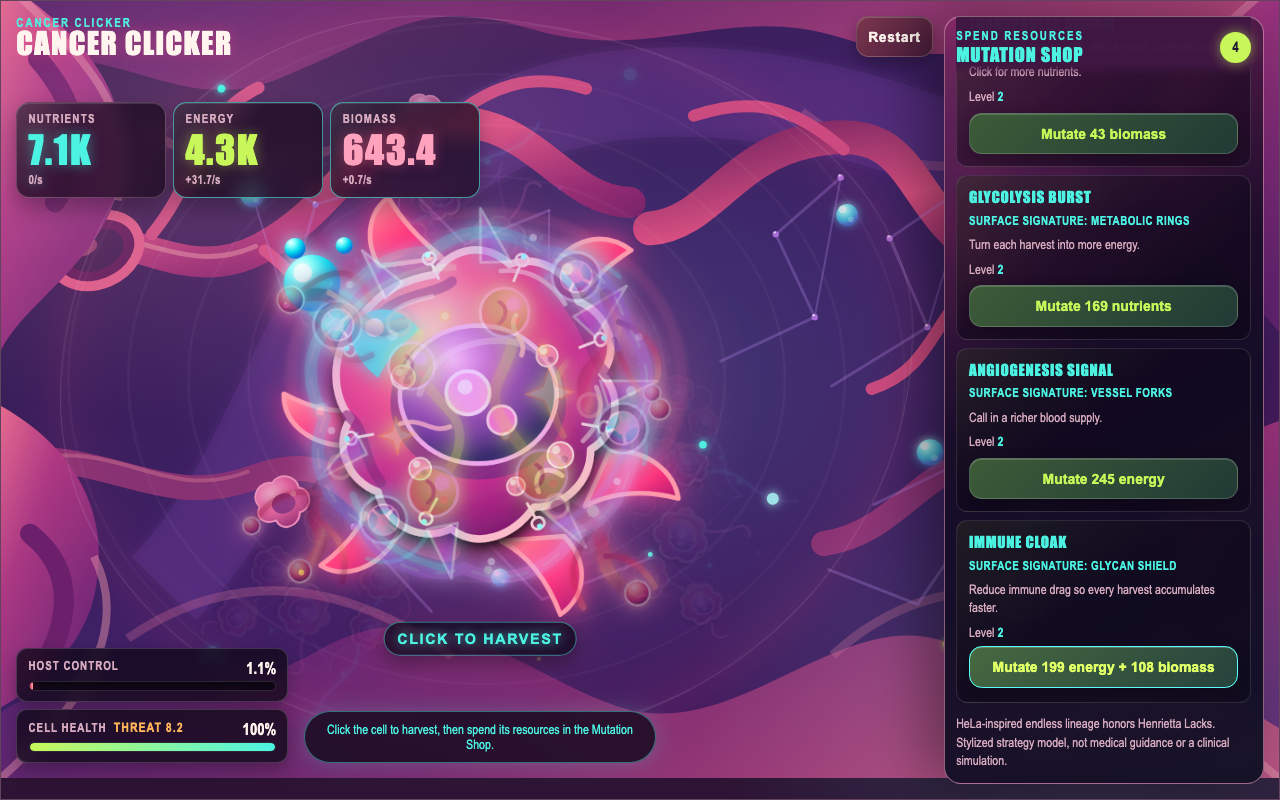
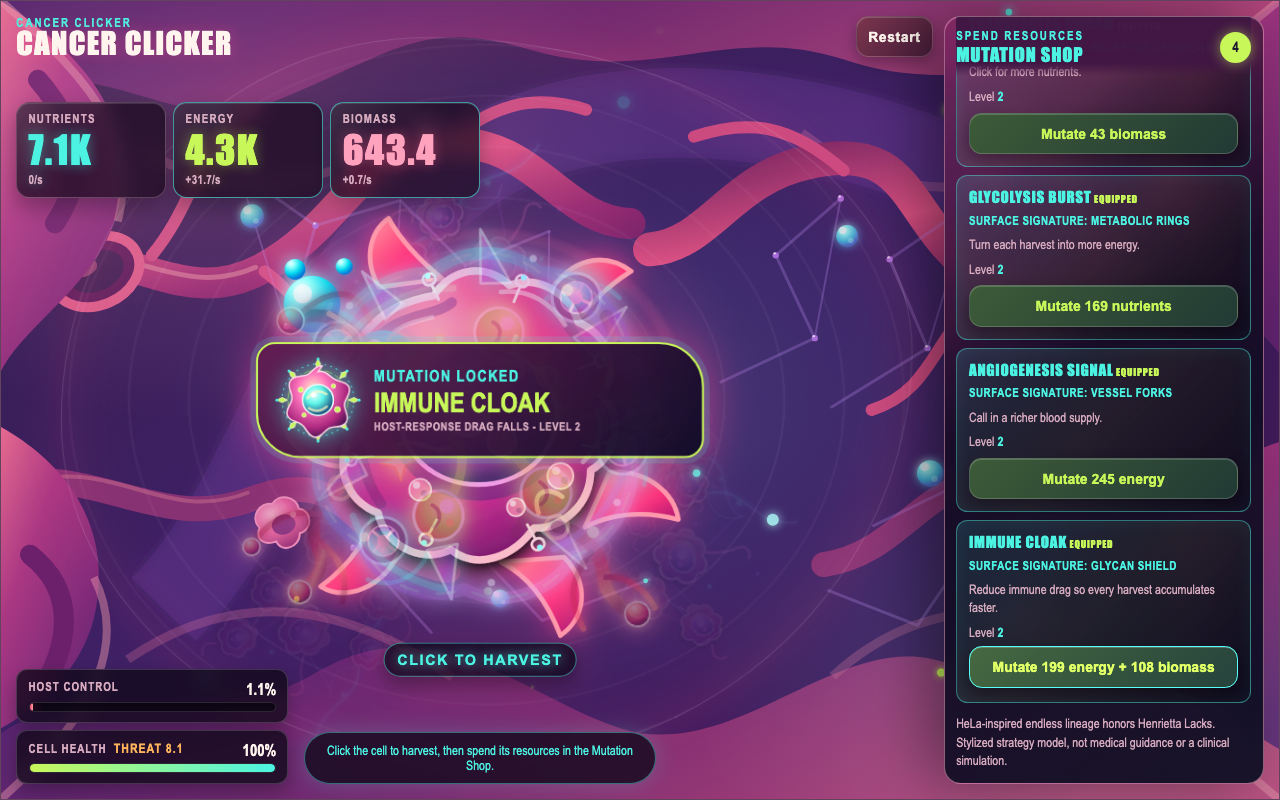
Added a mutation-milestone feedback mechanic: every success... (+2 more)
- Added a mutation-milestone feedback mechanic: every successful purchase now triggers an organic
  SVG signal burst, names the equipped mutation, and leaves its shop card visibly marked.
- Added `src/effects.css` as the focused motion and feedback cascade, with a stable reduced-motion
  presentation and mobile placement that preserves the 16:10 tissue chamber.
- The first documentation gate rejected links to the new untracked effect sources; architecture
  docs now use plain paths until those files enter the tracked repository set.

diff --git a/src/main.ts b/src/main.ts
@@ -12,6 +12,12 @@ import type { SimulationState, UpgradeId } from "./types/simulation";
 import { renderGame } from "./ui_rendering";
 
 const TICK_INTERVAL_MILLISECONDS = 250;
+const MUTATION_FEEDBACK: Readonly<Record<UpgradeId, readonly [string, string]>> = {
+  transporters: ["Transporter swarm", "Nutrient capture compounds"],
+  glycolysis: ["Glycolysis burst", "Energy harvest compounds"],
+  angiogenesis: ["Angiogenesis signal", "Blood supply compounds"],
+  immune_cloak: ["Immune cloak", "Host-response drag falls"],
+};
 
 let state: SimulationState = createInitialState();
 
@@ -24,6 +30,10 @@ function main(): void {
   restartButton.addEventListener("click", restartSimulation);
   cellClickTarget.addEventListener("click", harvestNutrients);
   cellClickTarget.addEventListener("animationend", removeClickFeedback);
+  requiredElement<HTMLElement>("#mutation-feedback").addEventListener(
+    "animationend",
+    hideMutationFeedback,
+  );
   document.addEventListener("click", handleManagementClick);
   window.setInterval(advanceClock, TICK_INTERVAL_MILLISECONDS);
   render();
@@ -46,6 +56,7 @@ function startSimulation(): void {
 
 function restartSimulation(): void {
   state = createInitialState();
+  requiredElement<HTMLElement>("#mutation-feedback").hidden = true;
   render();
 }
 
@@ -87,9 +98,32 @@ function handleManagementClick(event: MouseEvent): void {
 
   if (button.dataset["action"] === "buy-upgrade") {
     const upgradeId = readUpgradeId(button);
-    state = purchaseUpgrade(state, upgradeId);
+    const previousLevel = state.upgradeLevels[upgradeId];
+    const nextState = purchaseUpgrade(state, upgradeId);
+    state = nextState;
     render();
+    if (nextState.upgradeLevels[upgradeId] > previousLevel) {
+      triggerMutationFeedback(upgradeId, nextState.upgradeLevels[upgradeId]);
+    }
   }
+}
+
+function triggerMutationFeedback(upgradeId: UpgradeId, level: number): void {
+  const feedback = requiredElement<HTMLElement>("#mutation-feedback");
+  const [title, detail] = MUTATION_FEEDBACK[upgradeId];
+  requiredElement<HTMLElement>("#mutation-feedback-title").textContent = title;
+  requiredElement<HTMLElement>("#mutation-feedback-detail").textContent =
+    `${detail} - level ${level}`;
+  feedback.hidden = false;
+  feedback.classList.remove("is-active");
+  window.requestAnimationFrame(() => feedback.classList.add("is-active"));
+}
+
+function hideMutationFeedback(event: AnimationEvent): void {
+  if (event.target !== event.currentTarget) return;
+  const feedback = requiredElement<HTMLElement>("#mutation-feedback");
+  feedback.classList.remove("is-active");
+  feedback.hidden = true;
 }
 
 function managementButton(target: EventTarget | null): HTMLButtonElement | null {

diff --git a/src/effects.css b/src/effects.css
@@ -1,0 +1,107 @@
+.mutation-feedback {
+  position: absolute;
+  z-index: 18;
+  top: 50%;
+  left: calc((100% - var(--shop-width)) / 2);
+  display: grid;
+  width: min(28rem, calc(100% - var(--shop-width) - 2rem));
+  grid-template-columns: 5.5rem 1fr;
+  gap: 0.75rem;
+  align-items: center;
+  padding: 0.75rem 1rem;
+  transform: translate(-50%, -50%);
+  border: 2px solid var(--metabolic);
+  border-radius: 1.2rem 2.8rem;
+  color: #fff9ed;
+  background: linear-gradient(135deg, rgb(99 28 82 / 94%), rgb(16 12 39 / 96%));
+  box-shadow:
+    0 0 0 0.35rem rgb(76 243 226 / 16%),
+    0 0 3rem rgb(255 73 145 / 62%);
+  pointer-events: none;
+}
+.mutation-feedback.is-active {
+  animation: mutation-feedback-arrive 1.7s cubic-bezier(0.16, 1, 0.3, 1) both;
+}
+.mutation-feedback[hidden] {
+  display: none;
+}
+.mutation-feedback img {
+  width: 5.5rem;
+  filter: drop-shadow(0 0 0.8rem rgb(76 243 226 / 70%));
+}
+.mutation-feedback span,
+.mutation-feedback small {
+  display: block;
+  color: var(--nutrient);
+  font-weight: 850;
+  letter-spacing: 0.08em;
+  text-transform: uppercase;
+}
+.mutation-feedback strong {
+  display: block;
+  margin-block: 0.15rem;
+  color: var(--metabolic);
+  font-size: clamp(1.15rem, 2.2vw, 1.7rem);
+  text-transform: uppercase;
+}
+.mutation-feedback small {
+  color: var(--muted);
+  font-size: 0.72rem;
+  letter-spacing: 0.04em;
+}
+.upgrade-card[data-owned="true"] {
+  border-color: rgb(76 243 226 / 45%);
+  background: linear-gradient(
+    135deg,
+    rgb(76 243 226 / 12%),
+    rgb(200 247 90 / 7%) 48%,
+    rgb(10 5 19 / 55%)
+  );
+  box-shadow: inset 0 0 1.2rem rgb(76 243 226 / 7%);
+}
+.upgrade-card[data-owned="true"] h3::after {
+  content: "  EQUIPPED";
+  color: var(--metabolic);
+  font-size: 0.62rem;
+  letter-spacing: 0.08em;
+}
+@keyframes mutation-feedback-arrive {
+  0% {
+    opacity: 0;
+    transform: translate(-50%, -42%) scale(0.72) rotate(-3deg);
+  }
+  18%,
+  72% {
+    opacity: 1;
+    transform: translate(-50%, -50%) scale(1);
+  }
+  100% {
+    opacity: 0;
+    transform: translate(-50%, -56%) scale(1.04);
+  }
+}
+@media (max-width: 700px) {
+  .mutation-feedback {
+    top: 43%;
+    left: 50%;
+    width: min(92%, 25rem);
+    grid-template-columns: 4.2rem 1fr;
+  }
+  .mutation-feedback img {
+    width: 4.2rem;
+  }
+}
+@media (prefers-reduced-motion: reduce) {
+  .mutation-feedback.is-active {
+    animation: mutation-feedback-still 1.7s linear both !important;
+  }
+  @keyframes mutation-feedback-still {
+    0%,
+    85% {
+      opacity: 1;
+    }
+    100% {
+      opacity: 0;
+    }
+  }
+}

diff --git a/tests/playwright/smoke.spec.ts b/tests/playwright/smoke.spec.ts
@@ -122,6 +122,9 @@ test("smoke: Cancer Clicker keeps its mutation shop and cell evolution visible",
     await expect(page.locator(`#upgrade-${mutation.id}-level`)).toHaveText("1");
     await expect(page.locator(mutation.art)).toHaveAttribute("data-level", "1");
     await expect.poll(() => computedOpacity(page, mutation.art)).toBeGreaterThan(0);
+    await expect(button.locator("xpath=ancestor::article")).toHaveAttribute("data-owned", "true");
+    await expect(page.locator("#mutation-feedback")).toBeVisible();
+    await expect(page.locator("#mutation-feedback-title")).not.toHaveText("Surface evolved");
   }
 
   for (const selector of [
@@ -133,6 +136,7 @@ test("smoke: Cancer Clicker keeps its mutation shop and cell evolution visible",
     ".colony-three",
     ".colony-four",
     "#immune-patrol-image",
+    "#mutation-feedback img",
   ]) {
     await assetLoads(page, selector);
   }
@@ -174,6 +178,7 @@ test("smoke: Cancer Clicker keeps its mutation shop and cell evolution visible",
 test("smoke: the always-open shop remains reachable on a phone", async ({ page }) => {
   const diagnostics = captureDiagnostics(page);
   await page.setViewportSize({ width: 390, height: 844 });
+  await page.emulateMedia({ reducedMotion: "reduce" });
   await page.goto("/");
 
   await startSimulation(page);
@@ -201,6 +206,8 @@ test("smoke: the always-open shop remains reachable on a phone", async ({ page }
   }
   await transporterButton.click();
   await expect(page.locator("#upgrade-transporters-level")).toHaveText("1");
+  await expect(page.locator("#mutation-feedback")).toBeVisible();
+  await expect(page.locator("#mutation-feedback-title")).toHaveText("Transporter swarm");
 
   await expect
     .poll(() =>

diff --git a/src/index.html b/src/index.html
@@ -6,6 +6,7 @@
     <meta name="theme-color" content="#170d20" />
     <title>Cancer Clicker</title>
     <link rel="stylesheet" href="./style.css" />
+    <link rel="stylesheet" href="./effects.css" />
   </head>
   <body>
     <main id="app" class="app-shell" aria-describedby="model-note">
@@ -103,6 +104,20 @@
               alt=""
             /><span class="click-hint">CLICK TO HARVEST</span>
           </button>
+          <div
+            id="mutation-feedback"
+            class="mutation-feedback"
+            role="status"
+            aria-live="polite"
+            hidden
+          >
+            <img src="./art/mutation_burst.svg" alt="" aria-hidden="true" />
+            <div>
+              <span>Mutation locked</span>
+              <strong id="mutation-feedback-title">Surface evolved</strong>
+              <small id="mutation-feedback-detail">Harvest power compounds</small>
+            </div>
+          </div>
           <p id="game-message" role="status" aria-live="polite">
             The transformed cell is ready to wake.
           </p>

diff --git a/src/ui_rendering.ts b/src/ui_rendering.ts
@@ -108,6 +108,10 @@ function renderUpgrade(id: UpgradeId, state: SimulationState, costs: UpgradeCost
   const levelElement = requiredElement<HTMLElement>(`#upgrade-${id}-level`);
   const costElement = requiredElement<HTMLElement>(`#upgrade-${id}-cost`);
   const button = requiredElement<HTMLButtonElement>(`[data-upgrade-id='${id}']`);
+  const card = button.closest<HTMLElement>(".upgrade-card");
+  if (card === null) {
+    throw new Error(`Cancer Clicker renderer requires an upgrade card for ${id}.`);
+  }
   const affordable =
     state.resources.nutrients >= cost.nutrients &&
     state.resources.energy >= cost.energy &&
@@ -116,6 +120,7 @@ function renderUpgrade(id: UpgradeId, state: SimulationState, costs: UpgradeCost
   costElement.textContent = formatResourceCost(cost);
   button.disabled = !affordable || state.status === "ready";
   button.setAttribute("aria-label", `Level ${level + 1}: ${costElement.textContent}`);
+  card.dataset["owned"] = String(level > 0);
 }
 
 function formatResourceCost(cost: ResourceCost): string {

diff --git a/docs/CODE_ARCHITECTURE.md b/docs/CODE_ARCHITECTURE.md
@@ -23,10 +23,11 @@ build emits a self-contained `dist/` directory for GitHub Pages.
   [src/brands.ts](/src/brands.ts) validates the branded non-negative tick value.
 - [src/ui_rendering.ts](/src/ui_rendering.ts) converts state and calculated rates into text,
   progress bars, enabled purchases, lineage visibility, mutation intensity, and nutrient particles.
-- [src/style.css](/src/style.css) provides the responsive 16:10 game-frame layout, organic visual
-  treatment, and interaction feedback.
+- [src/style.css](/src/style.css) provides the responsive 16:10 game-frame layout and organic visual
+  treatment. `src/effects.css` owns purchase feedback, equipped-card states, and reduced-motion
+  behavior.
 - [src/art/](/src/art/) contains editable SVG scene art, cell art, daughter colonies, immune patrols,
-  and mutation signature layers.
+  mutation signatures, and the mutation-milestone signal burst.
 
 ## Data flow
 
@@ -40,7 +41,9 @@ build emits a self-contained `dist/` directory for GitHub Pages.
    takeover.
 5. [src/main.ts](/src/main.ts) calculates an `EconomySnapshot` and upgrade costs for the new state.
 6. [src/ui_rendering.ts](/src/ui_rendering.ts) writes the current stocks and actual `/s` rates to the
-   DOM, then sets visual state for the tumor mass and mutation art.
+   DOM, then sets visual state for the tumor mass, mutation art, and permanently equipped cards.
+7. A successful purchase triggers the named milestone overlay in [src/main.ts](/src/main.ts); its
+   editable burst artwork and motion live in `src/art/mutation_burst.svg` and `src/effects.css`.
 
 The simulation has no save service, server API, offline-progress calculation, failure state, or
 pause state. Accumulation continues while the page remains open after awakening.

diff --git a/docs/FILE_STRUCTURE.md b/docs/FILE_STRUCTURE.md
@@ -30,8 +30,10 @@
   [src/constants.ts](/src/constants.ts), [src/brands.ts](/src/brands.ts), and
   [src/types/simulation.ts](/src/types/simulation.ts) form the deterministic economy model.
 - [src/ui_rendering.ts](/src/ui_rendering.ts) owns DOM updates derived from simulation state.
-- [src/style.css](/src/style.css) owns the visual layout and responsive behavior.
-- [src/art/](/src/art/) holds authored SVG assets copied unchanged to `dist/art/` during builds.
+- [src/style.css](/src/style.css) owns the visual layout and responsive behavior;
+  `src/effects.css` owns milestone motion and persistent mutation feedback.
+- [src/art/](/src/art/) holds authored SVG assets, including the mutation signal burst, copied
+  unchanged to `dist/art/` during builds.
 
 ## Test layout
 
@@ -73,8 +75,8 @@
   [src/constants.ts](/src/constants.ts).
 - Put semantic controls and art references in [src/index.html](/src/index.html), and state-to-DOM
   updates in [src/ui_rendering.ts](/src/ui_rendering.ts).
-- Put game artwork in [src/art/](/src/art/) as editable SVG and visual styling in
-  [src/style.css](/src/style.css).
+- Put game artwork in [src/art/](/src/art/) as editable SVG, structural styling in
+  [src/style.css](/src/style.css), and focused state feedback in `src/effects.css`.
 - Put deterministic game assertions in [tests/test_simulation.mjs](/tests/test_simulation.mjs) and
   visible interaction checks in [tests/playwright/](/tests/playwright/).
 - Put durable reference documentation under [docs/](/docs/) using SCREAMING_SNAKE_CASE names; the

diff --git a/docs/CHANGELOG.md b/docs/CHANGELOG.md
@@ -4,6 +4,10 @@
 
 ### Additions and New Features
 
+- Added a mutation-milestone feedback mechanic: every successful purchase now triggers an organic
+  SVG signal burst, names the equipped mutation, and leaves its shop card visibly marked.
+- Added `src/effects.css` as the focused motion and feedback cascade, with a stable reduced-motion
+  presentation and mobile placement that preserves the 16:10 tissue chamber.
 - Renamed the game and npm package to **Cancer Clicker** / `cancer-clicker`.
 - Added the confirmed live GitHub Pages game link to the README landing page.
 - Refreshed the README newcomer journey with a live demo, a managed gameplay screenshot, a
@@ -75,6 +79,8 @@
   the harness before the final verification run.
 - The first final Playwright launch was blocked by macOS sandbox Mach-port permissions; the same
   production-built suite passed when Chromium was allowed to launch with browser permission.
+- The first documentation gate rejected links to the new untracked effect sources; architecture
+  docs now use plain paths until those files enter the tracked repository set.
 
 ### Developer Tests and Notes
 

diff --git a/README.md b/README.md
@@ -35,7 +35,8 @@ respects Henrietta Lacks and does not use her story as a gameplay reward.
 ## Mutation shop
 
 Each mutation compounds the clicker economy and visibly equips or intensifies a matching surface
-signature. Costs rise without a cap, which keeps the accumulation loop open ended.
+signature. A successful purchase fires a named organic mutation burst and permanently marks the
+shop card as equipped. Costs rise without a cap, which keeps the accumulation loop open ended.
 
 | Mutation | Resource cost | Visible result |
 | --- | --- | --- |
